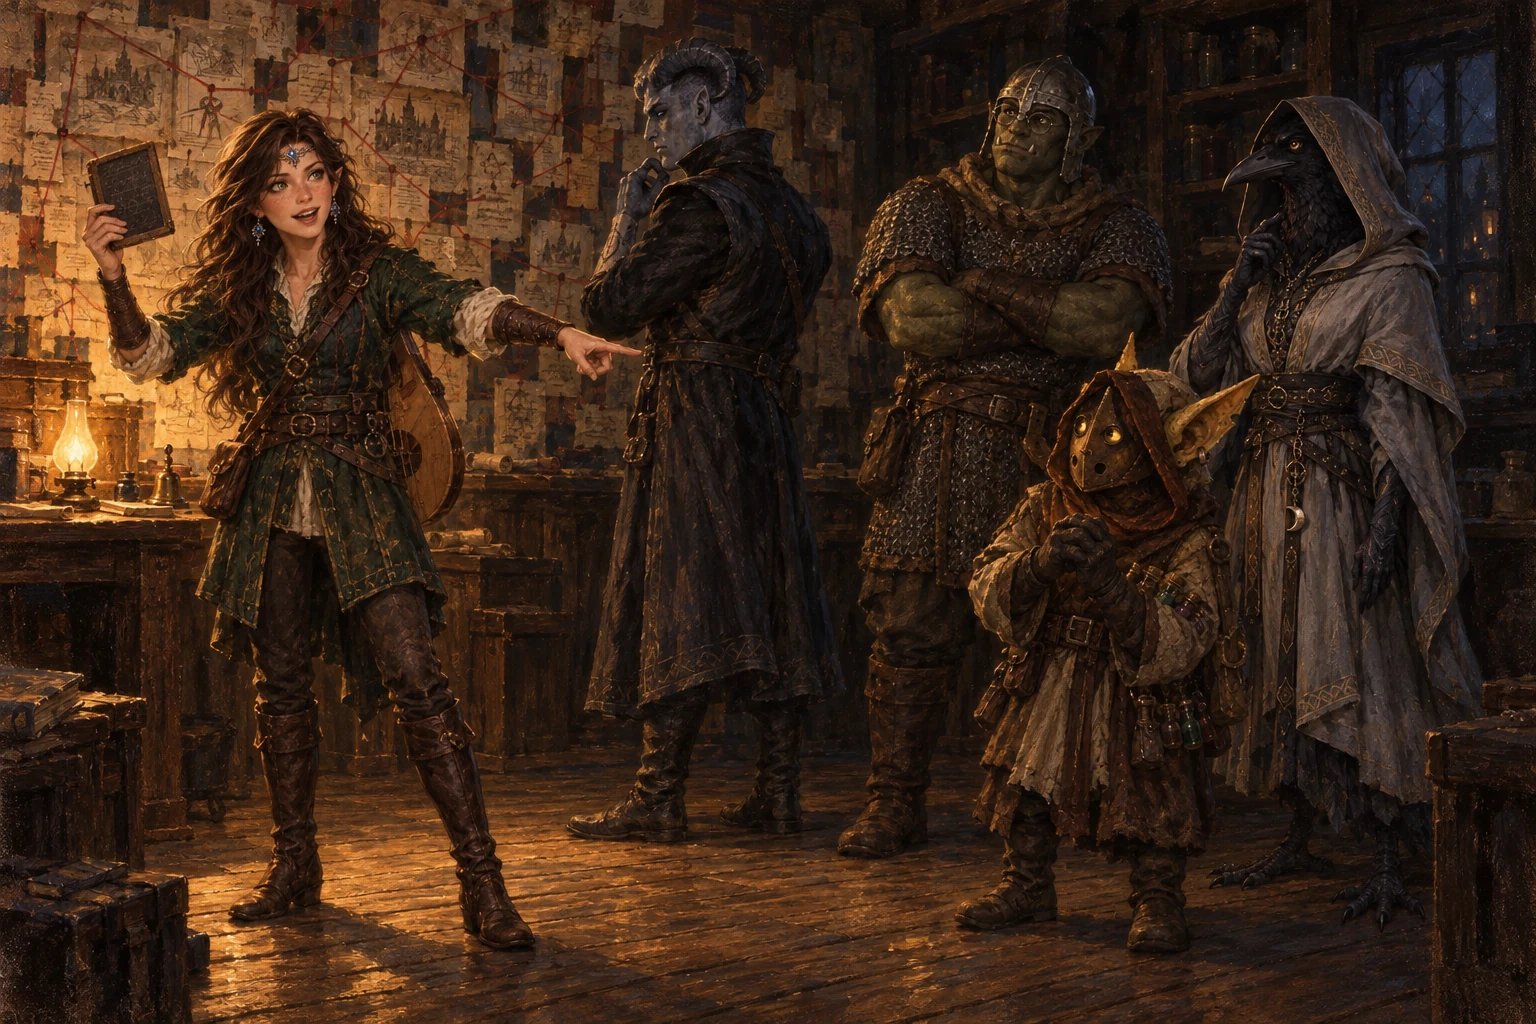
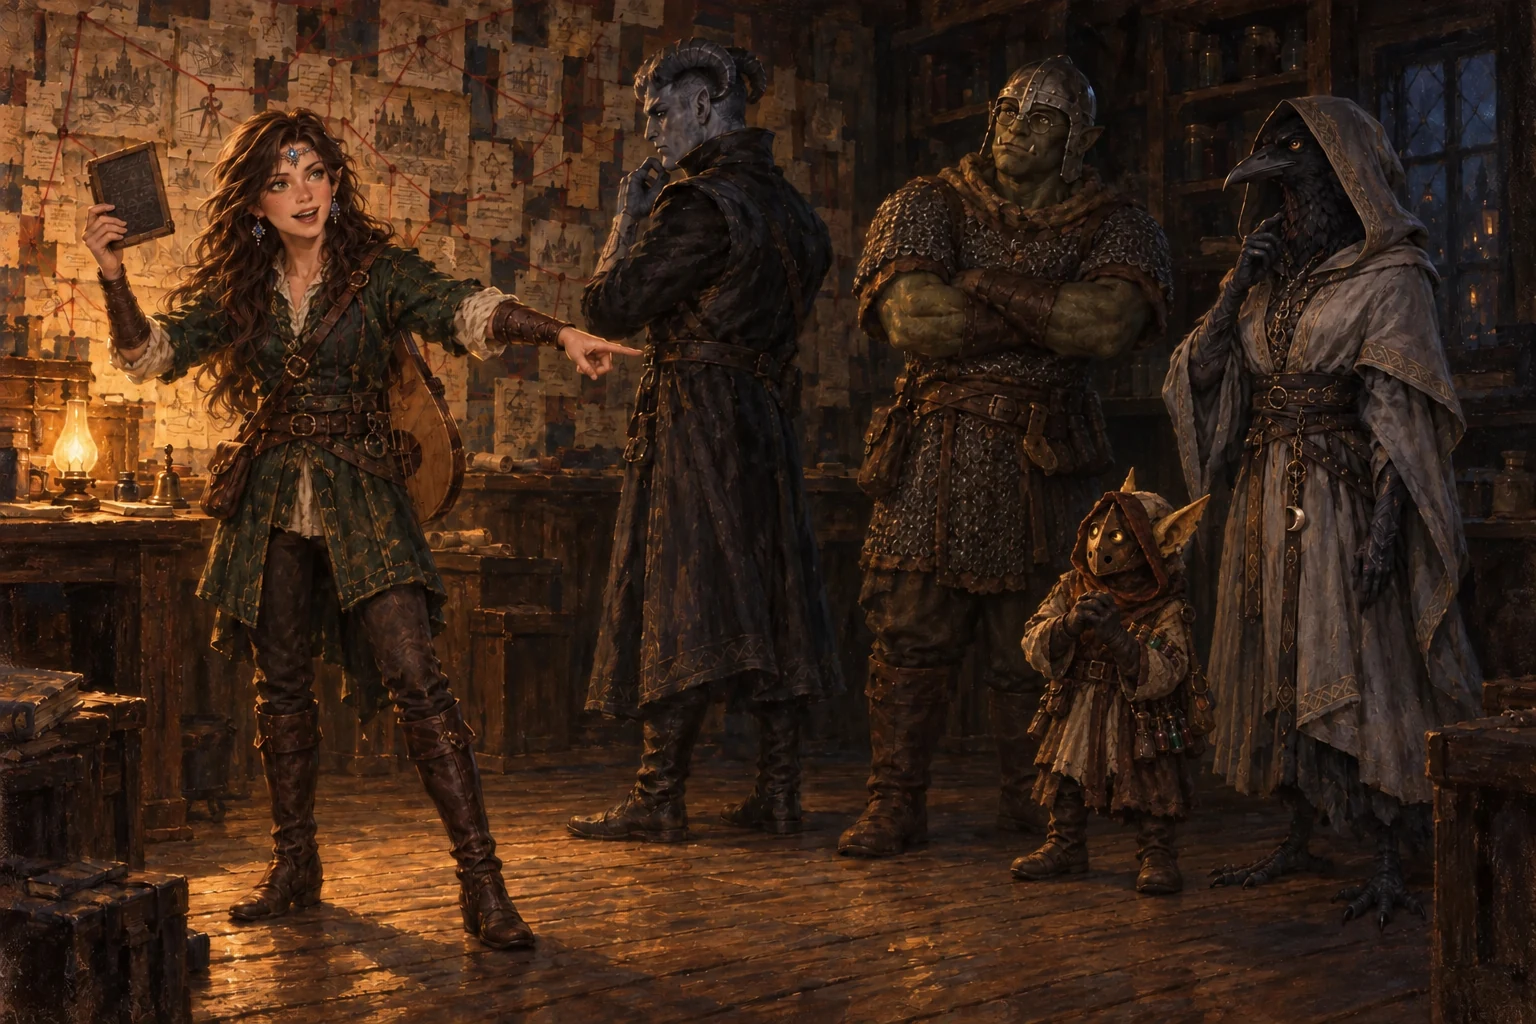
Diddle is 2''7" and his eyes are green
Height: he was reading north of three feet in plate G, better than half
the height of the tall members. ChatGPT edited the banked image rather
than regenerating it, so everyone else is untouched - he is now scaled
to 2''7", crown of the hood just under Kora''s belt.

Eyes: green, per Jeremy''s description at the table. The portrait''s
irises repainted green by the same edit. CANON.md notes that the yellow
in the mask''s eye-holes is lamp and flask light catching in them, not
the colour of the eye, so the plates stay consistent.

Both facts recorded in CANON.md and the dramatis personae.

diff --git a/characters/CANON.md b/characters/CANON.md
@@ -36,7 +36,7 @@ the change in the row rather than repainting the face.
 |---|---|---|---|
 | **Riven Maelus** | [`riven-maelus.webp`](riven-maelus.webp) | The Company | **Tiefling** man, early twenties, lean and road-worn. **Ash-grey skin, a pair of swept-back ridged horns, pale blue eyes that carry their own light**, dark hair cropped close at the sides; **faint drawn sigils inked along both forearms**. A dark travel-worn coat with a plain ring-clasp, one shoulder gone ragged; nothing ornamental. Expression: level, unhurried, watching something off to one side. *Avoid:* robes, a staff, a pointed hat, a spellbook held open, finery, a beard, warm or golden light, a smile. Confirmed tiefling; the portrait carries over from the character's earlier name unchanged. |
 | **Dorogh Kell** | [`dorogh-kell.webp`](dorogh-kell.webp) | The Company | Half-orc man, early twenties, **noticeably bigger than a human** — broad neck, heavy shoulders. More orc than human: heavy brow, broad jaw, **grey-green skin**, **ears subtly pointed** (never round human ears — renders drift), **two small clean lower tusks**, dignified, never a brutish underbite. **Plain round wireframe spectacles**, small on a large face. **An open-faced steel nasal helm** that hides nothing. Battered mail, a padded collar; **nothing at the chest — no pendant, no device**. Expression at rest: a deliberate, slightly self-conscious attempt at looking friendly — closed-mouth smile, brows a little raised, steady eye contact. **In a fight he is allowed a full open-mouthed battle roar**, brows driven down, eyes wide and furious, tusks showing: that is rage and it reads as rage. What is forbidden is the *grin* — a bared-teeth smile on a tusked face reads as caricature instantly. *Avoid:* a grin, a smirk, a sneer, a goofy or stupid expression, huge tusks, a full-face or horned helm, modern glasses, a cross or holy symbol, an old man. |
-| **Diddle Scribes** | [`diddle-scribes.webp`](diddle-scribes.webp) | The Company | Goblin man, small and **leaner than the usual goblin**; greenish-tan freckled skin. **His face is an ordinary goblin face: two eyes, a broad flat nose, a wide mouth.** In the field it is hidden behind **a rigid faceted alchemist's mask** of dark oiled leather over plate, covering the whole face — a vertical seam down the centre, radiating seams below it, small rivets at the joins, and **four round holes: the upper two are eye-holes with his eyes behind them, the lower two are smaller, set closer together, and are for breathing.** Pale alchemical vapour curls around it. A **deep hood** over the mask; **very large tapered ears** stand clear of it, the left one notched and hung with a plain metal cuff. Quilted tan lattice-stitched coat over a long brown work-coat, dark leather gloves, heavy boots, and a **belt and bandolier of pouches and stoppered vials** — green, blue, violet. Usually holding an **orange bomb-flask**. He takes the mask and hood off indoors once he is warm and settled. Expression (unmasked): curious, guileless, mid-explanation. *Avoid:* **four eyes on his actual face, a long ridged nose, a tiny mouth** — all three are misreadings of the mask; also a snarl, bared teeth, a manic grin, red eyes, a hobgoblin's bulk, warpaint, a hooked nose, tribal rags, a cauldron. |
+| **Diddle Scribes** | [`diddle-scribes.webp`](diddle-scribes.webp) | The Company | Goblin man, small and **leaner than the usual goblin**; greenish-tan freckled skin. **He is 2 feet 7 inches tall** — the crown of his head comes to just below Kora's belt, and he is a little over a third the height of the tall members of the company, not half. **His face is an ordinary goblin face: two eyes, a broad flat nose, a wide mouth. His eyes are GREEN** (Jeremy's description at the table, settled by Matt 2026-09-20); the yellow in the mask's eye-holes is lamp and flask light catching in them, not the colour of the eye. In the field it is hidden behind **a rigid faceted alchemist's mask** of dark oiled leather over plate, covering the whole face — a vertical seam down the centre, radiating seams below it, small rivets at the joins, and **four round holes: the upper two are eye-holes with his eyes behind them, the lower two are smaller, set closer together, and are for breathing.** Pale alchemical vapour curls around it. A **deep hood** over the mask; **very large tapered ears** stand clear of it, the left one notched and hung with a plain metal cuff. Quilted tan lattice-stitched coat over a long brown work-coat, dark leather gloves, heavy boots, and a **belt and bandolier of pouches and stoppered vials** — green, blue, violet. Usually holding an **orange bomb-flask**. He takes the mask and hood off indoors once he is warm and settled. Expression (unmasked): curious, guileless, mid-explanation. *Avoid:* **four eyes on his actual face, a long ridged nose, a tiny mouth** — all three are misreadings of the mask; also a snarl, bared teeth, a manic grin, red eyes, a hobgoblin's bulk, warpaint, a hooked nose, tribal rags, a cauldron. |
 | **Kora Sjon** | [`kora-sjon.webp`](kora-sjon.webp) | The Company | Tengu woman of thirty-three, 5'7" and a shade taller than a human woman — glossy blue-black plumage over the whole body, a **raven's head and neck**, a **heavy dark grey beak**, one **amber-gold eye** visible in profile, a ruff of layered neck feathers; **hands humanlike, legs birdlike** (the portrait keeps the hands dark and claw-tipped, but they are hands, not talons). A **deep hood lined in pale gold knotwork** worn back off the face, a **feathered mantle** over dark layered vestments, a slate sash, and **hanging chains of small charms — a compass-rose disc, a crescent** — with a rolled scroll at the hip. Carries a **tall crook-headed wooden staff with a lit lantern swinging from it**. Expression: composed, looking off past the viewer. *Avoid:* a human face, a beak-shaped mask over human features, a parrot's colouring, an owl, bright plumage, armour, a holy symbol on a cross, a grin. *Cloth, settled by Matt 2026-09-20:* her dress and hooded robe are **light grey**, as Freya describes her and as the chronicle's prose has it. The portrait's cloth is much darker; **the grey wins in all new art.** Everything else in this row still follows the portrait — plumage, beak, the amber-gold eye, the gold knotwork hood lining, the charms and the crook staff. |
 
 ## Known drift

diff --git a/bible/02-dramatis-personae.md b/bible/02-dramatis-personae.md
@@ -36,10 +36,10 @@ table meets them; move them to **Adversaries** or mark them dead as it happens.
   human. Grey-green skin, subtly pointed ears, two small clean lower tusks, an open nasal helm, and
   plain round wire spectacles. Quick-minded, and making a careful, visible effort to look friendly.
 - **Diddle Scribes** *(player: ?)* — goblin alchemist, roughly fifteen years out of the ditch
-  James Helmsmith found him in. Small even for a goblin and leaner than his kin; huge tapered ears,
-  an ordinary goblin face hidden in the field behind a rigid faceted alchemist's mask with four
-  round holes in it, the upper two for seeing and the lower two for breathing, worn under a deep
-  hood; a quilted tan coat over a long brown
+  James Helmsmith found him in. Small even for a goblin at **2'7"** and leaner than his kin; huge
+  tapered ears, **green eyes**, an ordinary goblin face hidden in the field behind a rigid faceted
+  alchemist's mask with four round holes in it, the upper two for seeing and the lower two for
+  breathing, worn under a deep hood; a quilted tan coat over a long brown
   work-coat hung with pouches and a belt of stoppered vials. Reared by a human shopkeeper and
   taught to trade with the other races — rough going at first, easier once Drezen got used to him.
   Quirky and a touch naive; poor at people, excellent at potions. Signed on with the town guard to
